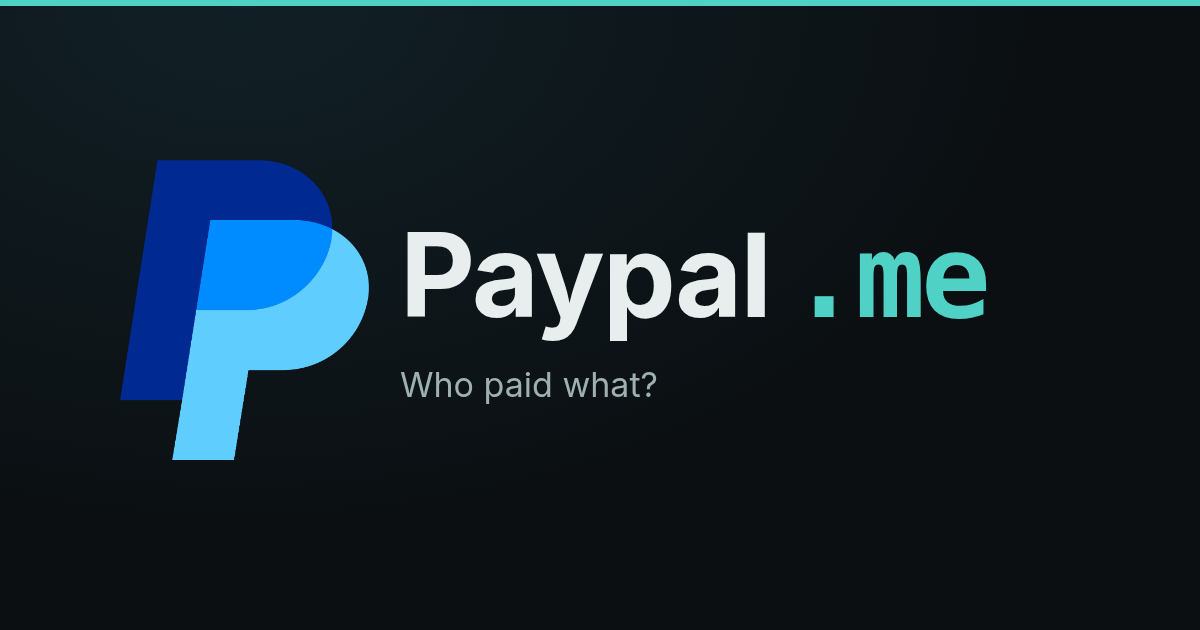
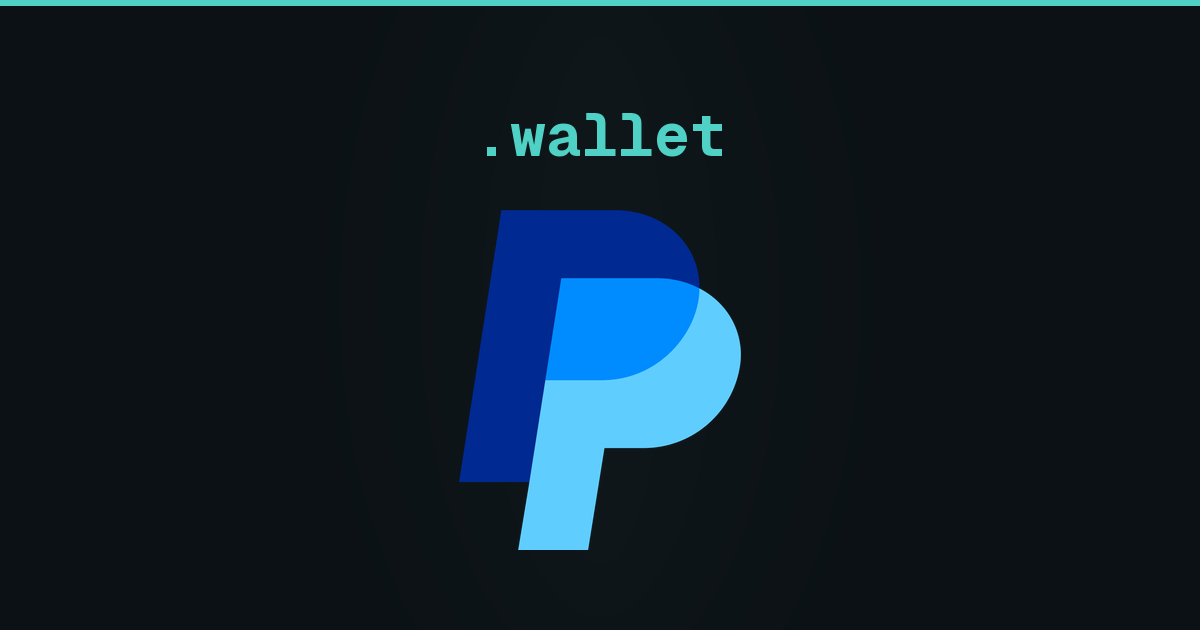
paypal: list split, sum, divide and pay on the provider page
Drop the Demos/Docs landing and the Paypal .me name so /.wallet/paypal
is the public face: operations that already run, with the share image
showing .wallet above the PayPal monogram.

diff --git a/paypal/demos/index.html b/paypal/demos/index.html
@@ -1,80 +1,14 @@
 <!doctype html>
-<html lang="en" data-accent="neutral">
+<html lang="en">
 <head>
   <meta charset="utf-8" />
   <meta name="viewport" content="width=device-width, initial-scale=1" />
-  <meta name="theme-color" content="#0b0b0f" />
-  <title>Demos · PayPal · .wallet</title>
-  <meta name="description" content="Demos built on the PayPal integration of .wallet." />
-  <link rel="canonical" href="https://neurons-me.github.io/.wallet/paypal/demos/" />
-  <link rel="icon" type="image/png" href="https://res.cloudinary.com/dkwnxf6gm/image/upload/v1760629064/neurons.me_b50f6a.png" />
-  <meta property="og:title" content="Demos · PayPal · .wallet" />
-  <meta property="og:description" content="Demos built on the PayPal integration of .wallet." />
-  <meta property="og:url" content="https://neurons-me.github.io/.wallet/paypal/demos/" />
-  <meta property="og:type" content="website" />
-  <meta name="twitter:card" content="summary" />
-  <!-- .GUI (this.gui@4.2.1, which has G.QRme) renders this page from the static markup below (/.wallet/assets/wallet-gui.js, the same topbar as the neurons-me docs); the static page stays as the no-JS / CDN-failure fallback.
-       Same page-scoped theme keys as the docs (me-docs), neurons.me, dark by default, so the light / dark choice carries across them. -->
-  <script>
-    window.__thisGuiThemeScope = { scopeId: "me-docs", themeModeKey: "me-docs.themeMode", themeIdKey: "me-docs.themeId", defaultMode: "dark" };
-    try {
-      if (!localStorage.getItem("me-docs.themeMode")) localStorage.setItem("me-docs.themeMode", "dark");
-      if (!localStorage.getItem("me-docs.themeId")) localStorage.setItem("me-docs.themeId", "neurons.me");
-    } catch (e) {}
-    document.documentElement.classList.add("gui-boot");
-  </script>
-  <!-- No icon font: every icon is inline SVG; hide any icon-font span so its name never shows as text. -->
-  <style>.material-symbols-rounded,.material-symbols-outlined,.material-icons{display:none!important} body{margin:0} .gui-boot #static-landing{display:none}</style>
-  <!-- Pinned dependencies (jsDelivr, exact versions, Subresource Integrity). -->
-  <script src="https://cdn.jsdelivr.net/npm/react@18.3.1/umd/react.production.min.js" integrity="sha384-DGyLxAyjq0f9SPpVevD6IgztCFlnMF6oW/XQGmfe+IsZ8TqEiDrcHkMLKI6fiB/Z" crossorigin="anonymous"></script>
-  <script src="https://cdn.jsdelivr.net/npm/react-dom@18.3.1/umd/react-dom.production.min.js" integrity="sha384-gTGxhz21lVGYNMcdJOyq01Edg0jhn/c22nsx0kyqP0TxaV5WVdsSH1fSDUf5YJj1" crossorigin="anonymous"></script>
-  <script src="https://cdn.jsdelivr.net/npm/this.gui@4.2.1/dist/this.gui.umd.js" integrity="sha384-hMM5lKGHIJVSKMQgLKFJCTZNMwCQ7XHWcMHCiiTwDFzA0a2q4p0crD/NyA9Pg7wb" crossorigin="anonymous"></script>
-  <!-- Static page styles, off once .GUI has rendered (html.gui-on). -->
-  <style>
-    html:not(.gui-on) * { box-sizing: border-box; }
-    html:not(.gui-on) body { font-family: "Inter", "Helvetica Neue", Helvetica, Arial, sans-serif; background: #0b0b0f; color: #f4f4f5; line-height: 1.6; }
-    html:not(.gui-on) a { color: inherit; text-decoration: none; }
-    html:not(.gui-on) .topnav { position: sticky; top: 0; display: flex; align-items: center; gap: 12px; min-height: 48px; padding: 0 20px; background: #0b1114; border-bottom: 1px solid #30363d; }
-    html:not(.gui-on) .topnav .logo { display: inline-flex; line-height: 0; }
-    html:not(.gui-on) .topnav .logo img { width: 28px; height: 28px; display: block; }
-    html:not(.gui-on) .mepath { font: 13px ui-monospace, SFMono-Regular, Menlo, Consolas, monospace; white-space: nowrap; }
-    html:not(.gui-on) .mepath a { color: #4fd1c5; }
-    html:not(.gui-on) .mepath a:nth-child(n+3)::before, html:not(.gui-on) .mepath .here:not(:nth-child(2))::before { content: "/"; opacity: .6; margin: 0 1px; color: #8b949e; }
-    html:not(.gui-on) .mepath .here { font-weight: 600; color: #e8eded; }
-    html:not(.gui-on) .topnav .spacer { flex: 1; }
-    html:not(.gui-on) .topnav .act, html:not(.gui-on) .topnav .gh { font: 12px ui-monospace, SFMono-Regular, Menlo, Consolas, monospace; color: #8b949e; }
-    html:not(.gui-on) main { max-width: 640px; margin: 0 auto; padding: 88px 20px 80px; }
-    html:not(.gui-on) h1 { font-size: clamp(2.2rem, 6vw, 3.4rem); line-height: 1.05; letter-spacing: -.03em; font-weight: 800; margin: 0 0 12px; }
-    html:not(.gui-on) .lead { color: #a1a1aa; margin: 0 0 32px; }
-    html:not(.gui-on) .cards { display: grid; grid-template-columns: 1fr; gap: 10px; }
-    @media (min-width: 640px) { html:not(.gui-on) .cards { grid-template-columns: repeat(2, minmax(0, 1fr)); } }
-    html:not(.gui-on) .card { display: block; padding: 16px 20px; border: 1px solid #30363d; border-radius: 14px; background: #0b1114; }
-    html:not(.gui-on) .card:hover { border-color: #4fd1c5; }
-    html:not(.gui-on) .card .t { font-weight: 600; font-size: 1.02rem; }
-    html:not(.gui-on) .card .d { color: #8b949e; font-size: .9rem; margin-top: 4px; }
-    html:not(.gui-on) .card .tag { display: inline-block; margin-top: 10px; font-size: .72rem; letter-spacing: .06em; text-transform: uppercase; color: #8b949e; }
-  </style>
+  <title>PayPal · .wallet</title>
+  <meta http-equiv="refresh" content="0; url=/.wallet/paypal/" />
+  <link rel="canonical" href="https://neurons-me.github.io/.wallet/paypal/" />
+  <script>location.replace("/.wallet/paypal/");</script>
 </head>
 <body>
-<div id="static-landing" data-layout="wallet-cards">
-  <nav class="topnav" aria-label="me path">
-    <a class="logo" href="https://neurons-me.github.io/" title="neurons.me"><img src="https://res.cloudinary.com/dkwnxf6gm/image/upload/v1760629064/neurons.me_b50f6a.png" alt="neurons.me" width="28" height="28" /></a>
-    <div class="mepath"><a href="https://neurons-me.github.io/.me/" title=".me">me://</a><a href="/.wallet/" title=".wallet">.wallet</a><a href="/.wallet/paypal/" title="PayPal">paypal</a><span class="here" aria-current="page">demos</span></div>
-    <span class="spacer"></span>
-    <a class="act" data-topbar="docs" href="/.wallet/docs/">Docs</a>
-    <a class="gh" href="https://github.com/neurons-me/.wallet">GitHub</a>
-  </nav>
-  <main>
-    <header>
-      <h1>Demos</h1>
-      <p class="lead">Built on the PayPal integration.</p>
-    </header>
-    <div class="cards">
-      <a class="card" href="/.wallet/paypal/split/"><div class="t">Paypal .me</div><div class="d">Describe who paid what, or snap a receipt, and split it. PayPal AI hackathon.</div><span class="tag">In development</span></a>
-    </div>
-  </main>
-</div>
-<div id="root"></div>
-<script src="/.wallet/assets/wallet-gui.js?v=5" onerror="document.documentElement.classList.remove('gui-boot')"></script>
+  <p><a href="/.wallet/paypal/">PayPal operations</a></p>
 </body>
 </html>

diff --git a/paypal/index.html b/paypal/index.html
@@ -5,23 +5,23 @@
   <meta name="viewport" content="width=device-width, initial-scale=1" />
   <meta name="theme-color" content="#0b0b0f" />
   <title>PayPal · .wallet</title>
-  <meta name="description" content="PayPal as a provider for .wallet: documentation and demos. Planned, not implemented yet." />
+  <meta name="description" content="PayPal as a provider for .wallet: split, sum, divide or pay. .me computes the numbers." />
   <link rel="canonical" href="https://neurons-me.github.io/.wallet/paypal/" />
   <link rel="icon" type="image/png" href="https://res.cloudinary.com/dkwnxf6gm/image/upload/v1760629064/neurons.me_b50f6a.png" />
-  <meta property="og:title" content="PayPal · .wallet" />
-  <meta property="og:description" content="PayPal as a provider for .wallet: documentation and demos. Planned, not implemented yet." />
+  <meta property="og:title" content="PayPal provider for .wallet" />
+  <meta property="og:description" content="PayPal as a provider for .wallet: split, sum, divide or pay. .me computes the numbers." />
   <meta property="og:url" content="https://neurons-me.github.io/.wallet/paypal/" />
   <meta property="og:type" content="website" />
   <meta property="og:image" content="https://neurons-me.github.io/.wallet/assets/og/paypal-og.png" />
   <meta property="og:image:type" content="image/png" />
   <meta property="og:image:width" content="1200" />
   <meta property="og:image:height" content="630" />
-  <meta property="og:image:alt" content="PayPal monogram with the text Paypal .me" />
+  <meta property="og:image:alt" content="PayPal provider for .wallet" />
   <meta name="twitter:card" content="summary_large_image" />
-  <meta name="twitter:title" content="PayPal · .wallet" />
-  <meta name="twitter:description" content="PayPal as a provider for .wallet: documentation and demos. Planned, not implemented yet." />
+  <meta name="twitter:title" content="PayPal provider for .wallet" />
+  <meta name="twitter:description" content="PayPal as a provider for .wallet: split, sum, divide or pay. .me computes the numbers." />
   <meta name="twitter:image" content="https://neurons-me.github.io/.wallet/assets/og/paypal-og.png" />
-  <meta name="twitter:image:alt" content="PayPal monogram with the text Paypal .me" />
+  <meta name="twitter:image:alt" content="PayPal provider for .wallet" />
   <!-- .GUI (this.gui@4.2.1, which has G.QRme) renders this page from the static markup below (/.wallet/assets/wallet-gui.js, the same topbar as the neurons-me docs); the static page stays as the no-JS / CDN-failure fallback.
        Same page-scoped theme keys as the docs (me-docs), neurons.me, dark by default, so the light / dark choice carries across them. -->
   <script>
@@ -70,17 +70,19 @@
     <a class="logo" href="https://neurons-me.github.io/" title="neurons.me"><img src="https://res.cloudinary.com/dkwnxf6gm/image/upload/v1760629064/neurons.me_b50f6a.png" alt="neurons.me" width="28" height="28" /></a>
     <div class="mepath"><a href="https://neurons-me.github.io/.me/" title=".me">me://</a><a href="/.wallet/" title=".wallet">.wallet</a><span class="here" aria-current="page">paypal</span></div>
     <span class="spacer"></span>
-    <a class="act" data-topbar="docs" href="/.wallet/docs/">Docs</a>
+    <a class="act" data-topbar="docs" href="/.wallet/docs/PayPal.html">Docs</a>
     <a class="gh" href="https://github.com/neurons-me/.wallet">GitHub</a>
   </nav>
   <main>
     <header>
       <h1>PayPal</h1>
-      <p class="lead">A provider for .wallet. Planned: not implemented yet.</p>
+      <p class="lead">A provider for .wallet. Ask it to split, sum, divide or pay — .me computes the numbers.</p>
     </header>
     <div class="cards">
-      <a class="card" href="/.wallet/docs/PayPal.html"><div class="t">Docs</div><div class="d">What exists today, what is planned, and the PayPal APIs involved.</div><span class="tag">Reference</span></a>
-      <a class="card" href="/.wallet/paypal/demos/"><div class="t">Demos</div><div class="d">Things built on this integration.</div><span class="tag">Demos</span></a>
+      <a class="card" href="/.wallet/paypal/split/"><div class="t">Split</div><div class="d">Split an expense among people. .me computes each share.</div></a>
+      <a class="card" href="/.wallet/paypal/split/"><div class="t">Sum</div><div class="d">Totals and nets, recomputed from what you entered.</div></a>
+      <a class="card" href="/.wallet/paypal/split/"><div class="t">Divide</div><div class="d">Shares and weights among who was in.</div></a>
+      <a class="card" href="/.wallet/paypal/split/"><div class="t">Pay</div><div class="d">Charge with PayPal and write the capture to .me.</div></a>
     </div>
   </main>
 </div>

diff --git a/paypal/split/index.html b/paypal/split/index.html
@@ -4,11 +4,11 @@
   <meta charset="utf-8" />
   <meta name="viewport" content="width=device-width, initial-scale=1" />
   <meta name="theme-color" content="#0b0b0f" />
-  <title>Paypal .me · .wallet</title>
-  <meta name="description" content="Paypal .me, a demo for the PayPal AI hackathon: describe who paid what or snap a receipt, and split it. In development." />
+  <title>PayPal · .wallet</title>
+  <meta name="description" content="Split, sum, divide or pay with PayPal as the .wallet provider. .me computes the numbers. In development." />
   <link rel="canonical" href="https://neurons-me.github.io/.wallet/paypal/split/" />
   <link rel="icon" type="image/png" href="https://res.cloudinary.com/dkwnxf6gm/image/upload/v1760629064/neurons.me_b50f6a.png" />
-  <meta property="og:title" content="Paypal .me" />
+  <meta property="og:title" content="PayPal · .wallet" />
   <meta property="og:description" content="A demo for the PayPal AI hackathon: who paid what, split. In development." />
   <meta property="og:url" content="https://neurons-me.github.io/.wallet/paypal/split/" />
   <meta property="og:type" content="website" />
@@ -16,12 +16,12 @@
   <meta property="og:image:type" content="image/png" />
   <meta property="og:image:width" content="1200" />
   <meta property="og:image:height" content="630" />
-  <meta property="og:image:alt" content="PayPal monogram with the text Paypal .me" />
+  <meta property="og:image:alt" content="PayPal provider for .wallet" />
   <meta name="twitter:card" content="summary_large_image" />
-  <meta name="twitter:title" content="Paypal .me" />
+  <meta name="twitter:title" content="PayPal · .wallet" />
   <meta name="twitter:description" content="A demo for the PayPal AI hackathon: who paid what, split. In development." />
   <meta name="twitter:image" content="https://neurons-me.github.io/.wallet/assets/og/paypal-og.png" />
-  <meta name="twitter:image:alt" content="PayPal monogram with the text Paypal .me" />
+  <meta name="twitter:image:alt" content="PayPal provider for .wallet" />
   <!-- .GUI (this.gui@4.2.1, which has G.QRme) renders this page from the static markup below (/.wallet/assets/wallet-gui.js, the same topbar as the neurons-me docs); the static page stays as the no-JS / CDN-failure fallback.
        Same page-scoped theme keys as the docs (me-docs), neurons.me, dark by default, so the light / dark choice carries across them. -->
   <script>
@@ -100,7 +100,7 @@
         </div>
       </form>
     </section>
-    <p class="note">Paypal .me · a demo for the PayPal AI hackathon · in development. This page does not send anything yet.</p>
+    <p class="note">.wallet/paypal · PayPal AI hackathon · in development. This page does not send anything yet.</p>
   </main>
 </div>
 <div id="root"></div>

diff --git a/docs/index.html b/docs/index.html
@@ -95,7 +95,7 @@
       </a>
 
       <a class="card" href="./PayPal.html">
-        <img src="/.wallet/assets/og/paypal-og.png" alt="PayPal monogram with the text Paypal .me" loading="lazy" style="display:block;width:100%;aspect-ratio:1200/630;object-fit:cover;border-radius:10px;margin-bottom:10px;" />
+        <img src="/.wallet/assets/og/paypal-og.png" alt="PayPal provider for .wallet" loading="lazy" style="display:block;width:100%;aspect-ratio:1200/630;object-fit:cover;border-radius:10px;margin-bottom:10px;" />
         <div class="card-title">PayPal</div>
         <div class="card-desc">PayPal provider: sandbox Orders v2 create / capture and verified webhooks through a local server. Setup and endpoints.</div>
       </a>

diff --git a/paypal/demos/split/index.html b/paypal/demos/split/index.html
@@ -2,7 +2,7 @@
 <html lang="en">
 <head>
   <meta charset="utf-8" />
-  <title>Moved: Paypal .me</title>
+  <title>Moved: PayPal · .wallet</title>
   <link rel="canonical" href="https://neurons-me.github.io/.wallet/paypal/split/" />
   <meta name="robots" content="noindex" />
   <meta http-equiv="refresh" content="0; url=/.wallet/paypal/split/" />

diff --git a/docs/PayPal.md b/docs/PayPal.md
@@ -76,4 +76,4 @@ Tests (no credentials needed): `node --test tests/paypal/paypal.test.mjs` and `c
 
 ## Demos
 
-[Paypal .me](/.wallet/paypal/split/) was made for the PayPal AI hackathon. It is in development. It charges real PayPal **sandbox** orders when the local server runs.
+[.wallet/paypal](/.wallet/paypal/) was made for the PayPal AI hackathon. It is in development. It charges real PayPal **sandbox** orders when the local server runs.
